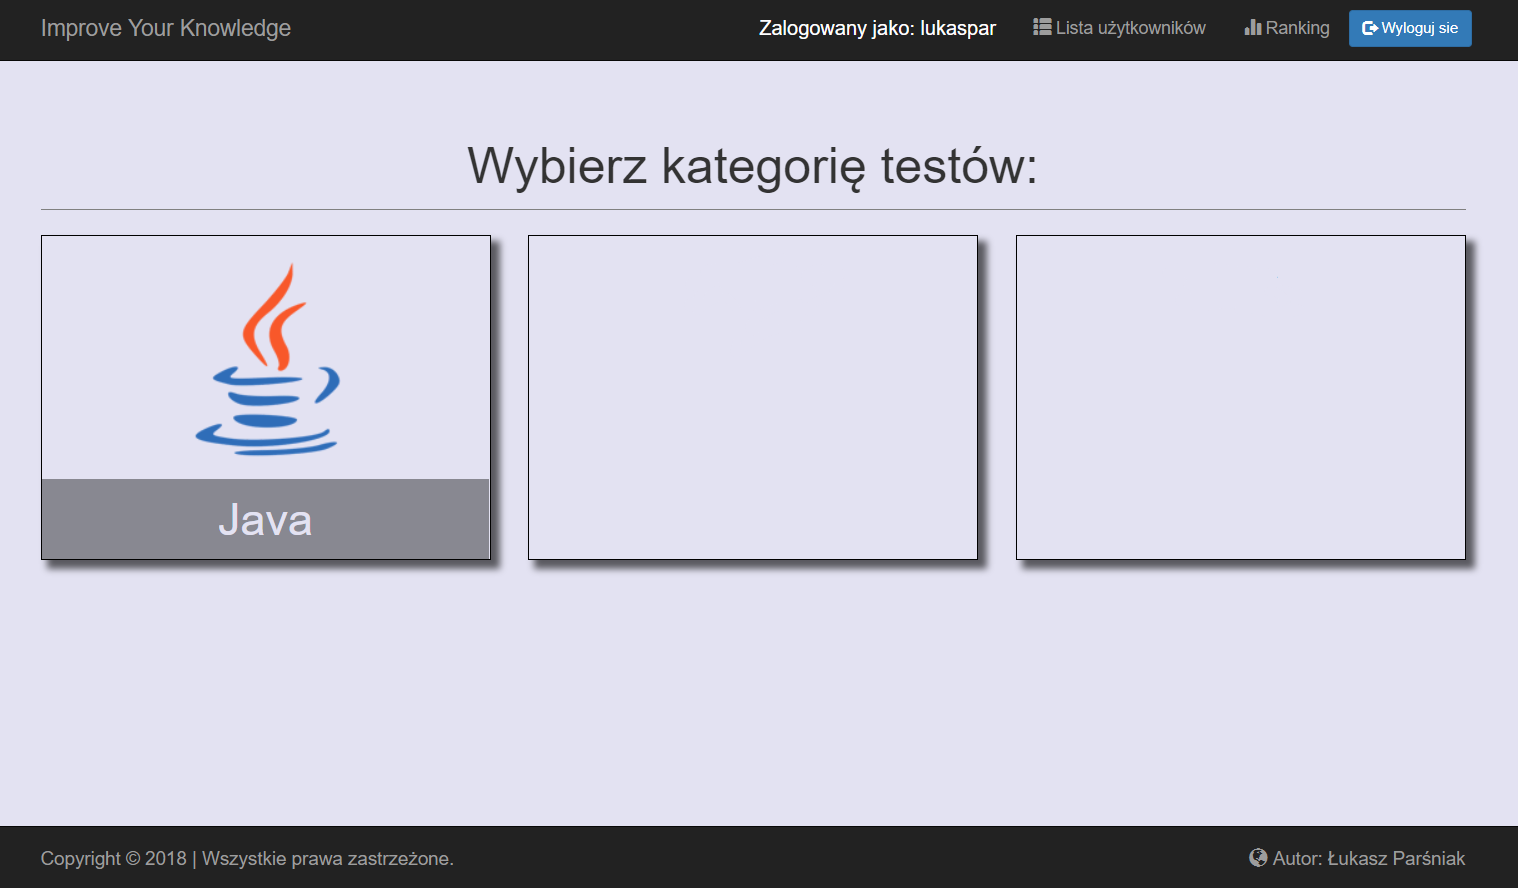
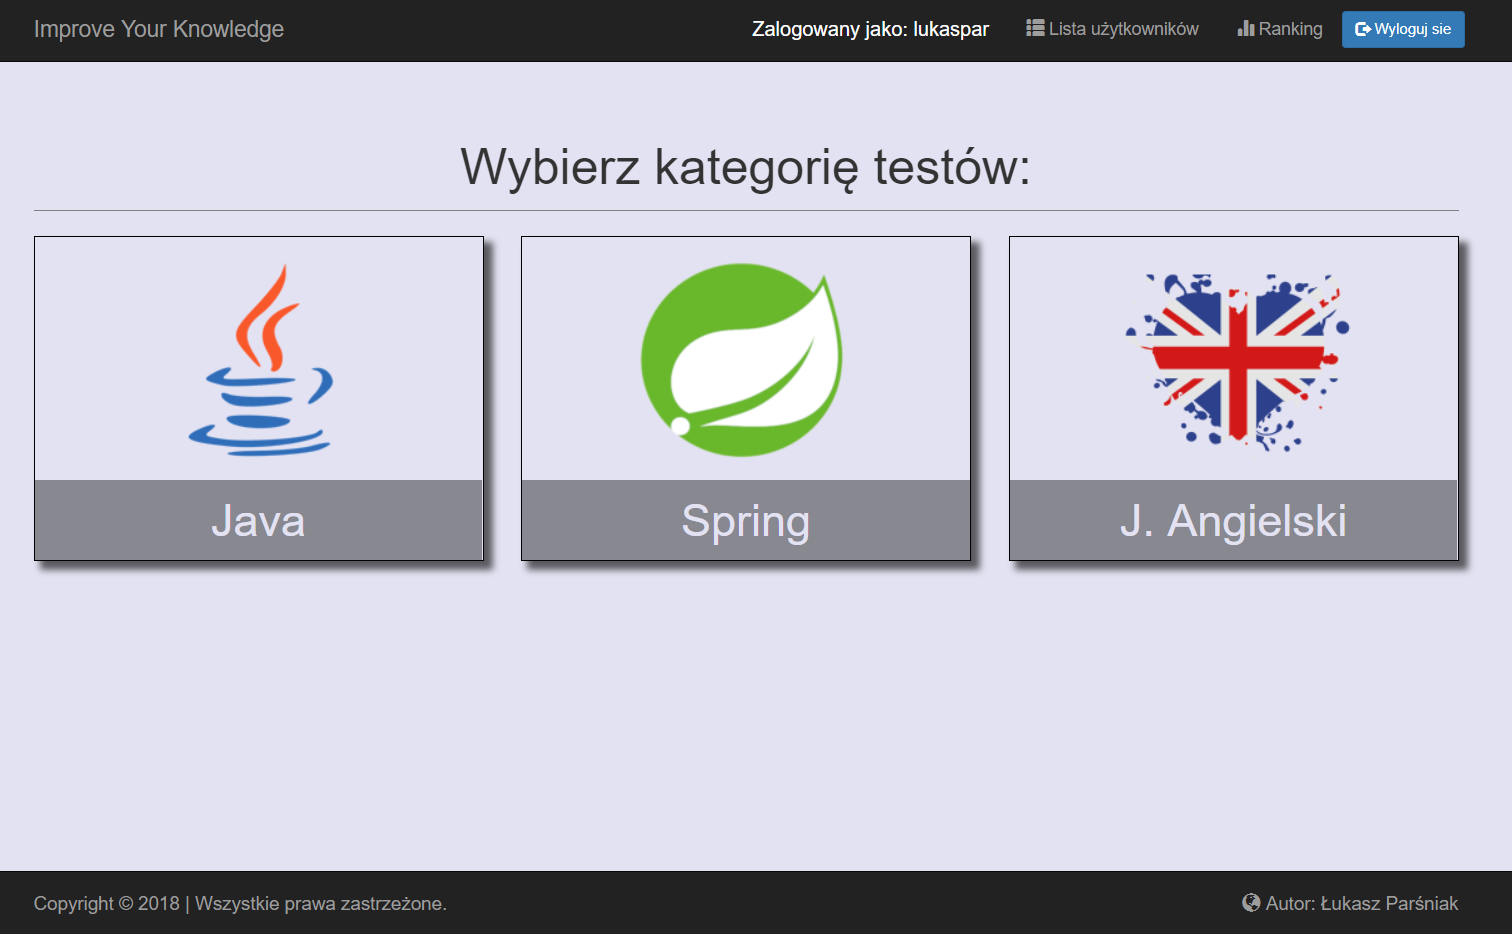
added new quiz categories - spring and english

diff --git a/src/main/resources/templates/learning.html b/src/main/resources/templates/learning.html
@@ -29,9 +29,11 @@
 
         <div class="col-md-4">
 
-            <a href="/javaQuiz">
-                <div class="containers-of-category">
-                    <h2>Java</h2>
+            <a href="/springQuiz">
+                <div class="containers-of-category" style="background: url('../img/springImg.png') no-repeat;">
+                    <div class="small-container-down">
+                        <h2 class="label-on-containers">Spring</h2>
+                    </div>
                 </div>
 
             </a>
@@ -39,13 +41,15 @@
 
 
         <div class="col-md-4">
-            <a href="/javaQuiz">
-                <div class="containers-of-category">
-                    <h2>Java</h2>
+
+            <a href="/englishQuiz">
+                <div class="containers-of-category" style="background: url('../img/engImg.png') no-repeat;">
+                    <div class="small-container-down">
+                        <h2 class="label-on-containers">J. Angielski</h2>
+                    </div>
                 </div>
 
             </a>
-
         </div>
 
     </div>

diff --git a/src/main/resources/templates/englishQuiz.html b/src/main/resources/templates/englishQuiz.html
@@ -1,0 +1,24 @@
+<!DOCTYPE html>
+<html lang="eng" xmlns:th="http://www.w3.org/1999/xhtml">
+
+<head th:replace="fragments/head :: head">
+
+</head>
+
+<body>
+<nav th:replace="fragments/pageHeader :: pageHeader"></nav>
+
+<div class="container">
+
+    <h1 class="head-label">Wybierz który test chcesz wykonać: </h1>
+
+    <div class="row justify-content-around">
+        <h2>Obecnie brak dostępnych quizów w tej kategorii.</h2>
+    </div>
+
+</div>
+
+
+<footer th:replace="fragments/footer :: footer"></footer>
+</body>
+</html>

diff --git a/src/main/resources/templates/springQuiz.html b/src/main/resources/templates/springQuiz.html
@@ -1,0 +1,24 @@
+<!DOCTYPE html>
+<html lang="eng" xmlns:th="http://www.w3.org/1999/xhtml">
+
+<head th:replace="fragments/head :: head">
+
+</head>
+
+<body>
+<nav th:replace="fragments/pageHeader :: pageHeader"></nav>
+
+<div class="container">
+
+    <h1 class="head-label">Wybierz który test chcesz wykonać: </h1>
+
+    <div class="row justify-content-around">
+        <h2>Obecnie brak dostępnych quizów w tej kategorii.</h2>
+    </div>
+
+</div>
+
+
+<footer th:replace="fragments/footer :: footer"></footer>
+</body>
+</html>

diff --git a/src/main/java/pl/lukaspar/controller/QuizController.java b/src/main/java/pl/lukaspar/controller/QuizController.java
@@ -78,4 +78,13 @@ public class QuizController {
         }
     }
 
+    @GetMapping("/springQuiz")
+    public String springQuiz(){
+        return "springQuiz";
+    }
+
+    @GetMapping("/englishQuiz")
+    public String englishQuiz(){
+        return "englishQuiz";
+    }
 }
